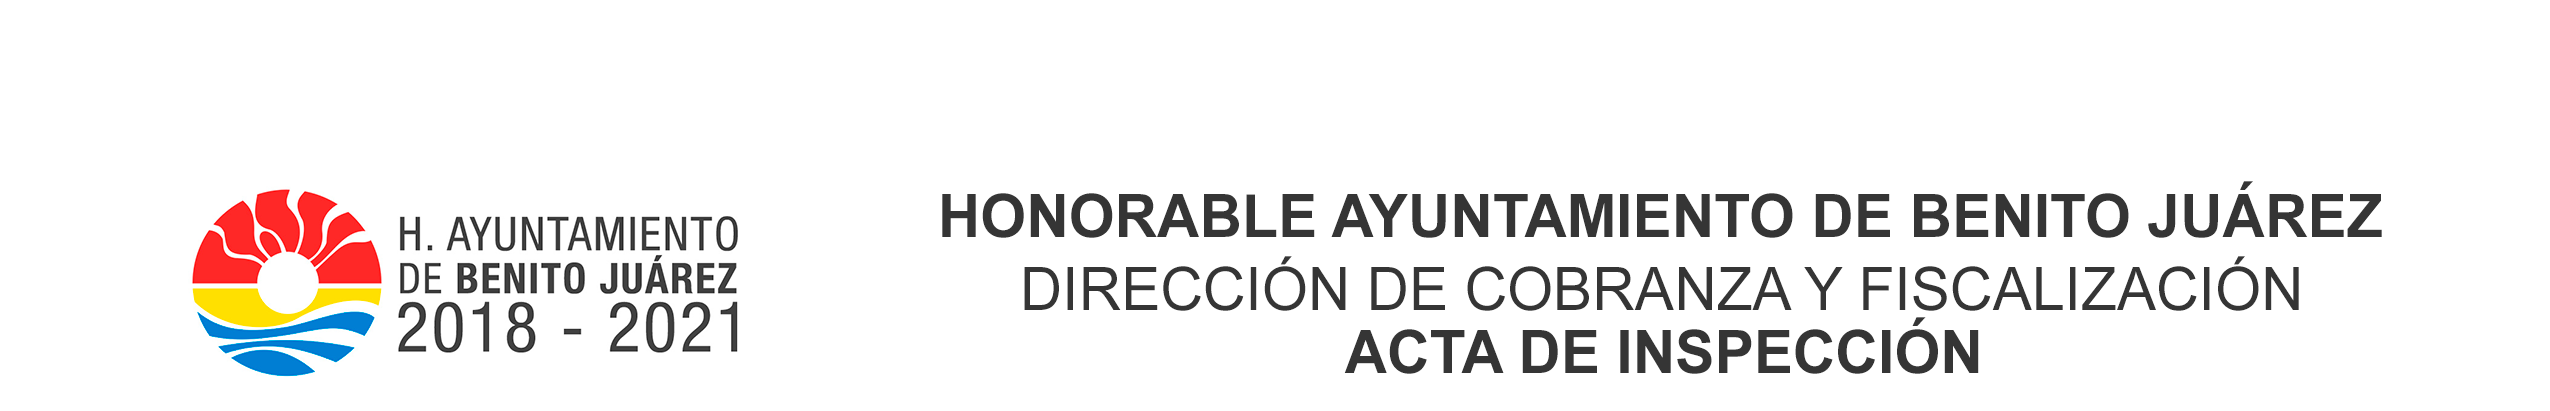
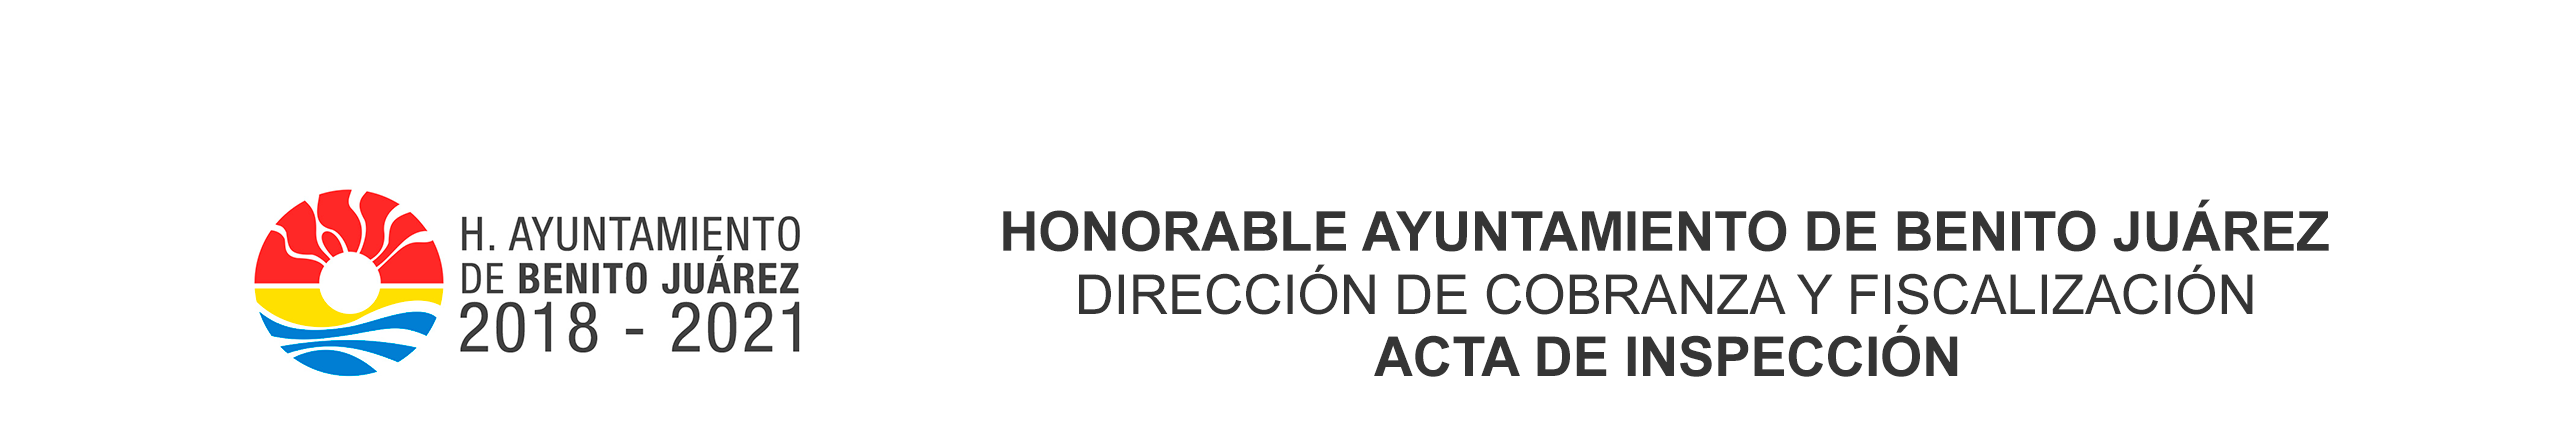
Maquetacion del Acta

Changed region(s): [[0.4027, 0.6131, 0.8984, 0.9051], [0.062, 0.4088, 0.3408, 0.9343], [0.3718, 0.4672, 0.9604, 0.5839]]

diff --git a/public/css/acta-inspeccion.css b/public/css/acta-inspeccion.css
@@ -1,6 +1,15 @@
 html, body{
 	margin: 0 !important;
-	font-size: .9em;
+	font-size: .8em;
+	text-transform: uppercase;
+	line-height: 1.3;
+
+}
+
+
+
+.text-justify{
+	text-align: justify;
 }
 
 .page_break{

diff --git a/resources/views/acta-inspeccion/acta-inspeccion.blade.php b/resources/views/acta-inspeccion/acta-inspeccion.blade.php
@@ -11,12 +11,17 @@
 	
 	
 	@foreach($inspecciones as $inspeccion)
-		{{ $inspeccion->folio }}
-		<img src="{{ asset('img/header-acta-inspeccion.png') }}" width="100%" class="mb-2">
-		<div class="container">
-			<p>Lorem ipsum dolor sit amet, consectetur adipisicing elit. Labore ipsam ratione velit eveniet debitis inventore alias voluptatibus facere maiores fuga sint tempore aliquid fugiat voluptatum quam molestias accusantium, doloremque dolorum.</p>
-		</div>
-		<div class="page_break"></div>
+	<img src="{{ asset('img/header-acta-inspeccion.png') }}" width="100%" class="mb-1">
+	<div class="container">
+		<h6 class="float-right">FOLIO No: <b>{{ $inspeccion->folio }}</b></h6><br><br><br>
+		<p class="mb-2"><b>Contribuyente:</b> C. Propietario, poseedor, posesionario y/o representante legal __________________________________________</p>
+		<p>______________________________________________________________________________________________________________________________</p>
+		<p class="mb-2"><b>Nombre comercial:</b> _________________________________________________________________________________________________________</p>
+		<p class="mb-2"><b>Domicilio:</b> ___________________________________________________________________________________________________________________</p>
+		<p class="text-justify">Municipio de Benito Juárez, Quintana Roo. Siendo las ________ horas del dia ____ del mes de ____________ del presente año. Lorem ipsum dolor sit amet, consectetur adipiscing elit. Suspendisse tristique, magna vel ultricies eleifend, sapien augue vestibulum nulla, nec sollicitudin enim nisl sit amet ante. <b>Phasellus ac neque at enim ultricies varius quis at turpis. Etiam et tortor posuere, ornare orci et, congue velit. Proin id magna vel lorem convallis vulputate vitae quis neque. Donec ut luctus leo, eu ultrices mi.</b> Aliquam id ipsum tellus. Duis volutpat turpis eget placerat condimentum. Donec non arcu metus. Nulla eget elementum arcu, in faucibus leo. Curabitur vulputate euismod aliquam. Fusce accumsan diam a erat blandit, nec interdum nibh commodo. Nulla ac finibus dui. Sed faucibus et justo quis dapibus. Quisque malesuada nisi a arcu egestas lacinia. Pellentesque viverra et lacus nec dictum. <b>In vel purus mi. Nunc nec porttitor odio, ac pellentesque nisi. Pellentesque feugiat suscipit lacus, eget scelerisque ligula auctor nec. Nulla nunc quam, rutrum in rutrum et, ornare et felis. Sed fermentum lacus nec sapien vehicula hendrerit. Duis ut orci consectetur, consequat ex sed, imperdiet urna. Phasellus ut eleifend dolor, vitae tincidunt nisl. Curabitur ornare, ligula id hendrerit lacinia, metus nisl interdum nibh, eget tristique augue sem ac nisi. Ut in tristique velit. Vivamus a urna ipsum. In euismod, odio a condimentum rhoncus, libero erat facilisis massa, nec scelerisque ipsum ligula ac ligula. Nulla et tempus libero. Sed vehicula risus ac molestie commodo. Cras in tortor dictum, rutrum risus et, euismod turpis. Etiam non nisi eget est porta finibus.</b></p>
+	</div>
+		
+	<div class="page_break"></div>
 	@endforeach
 
 
